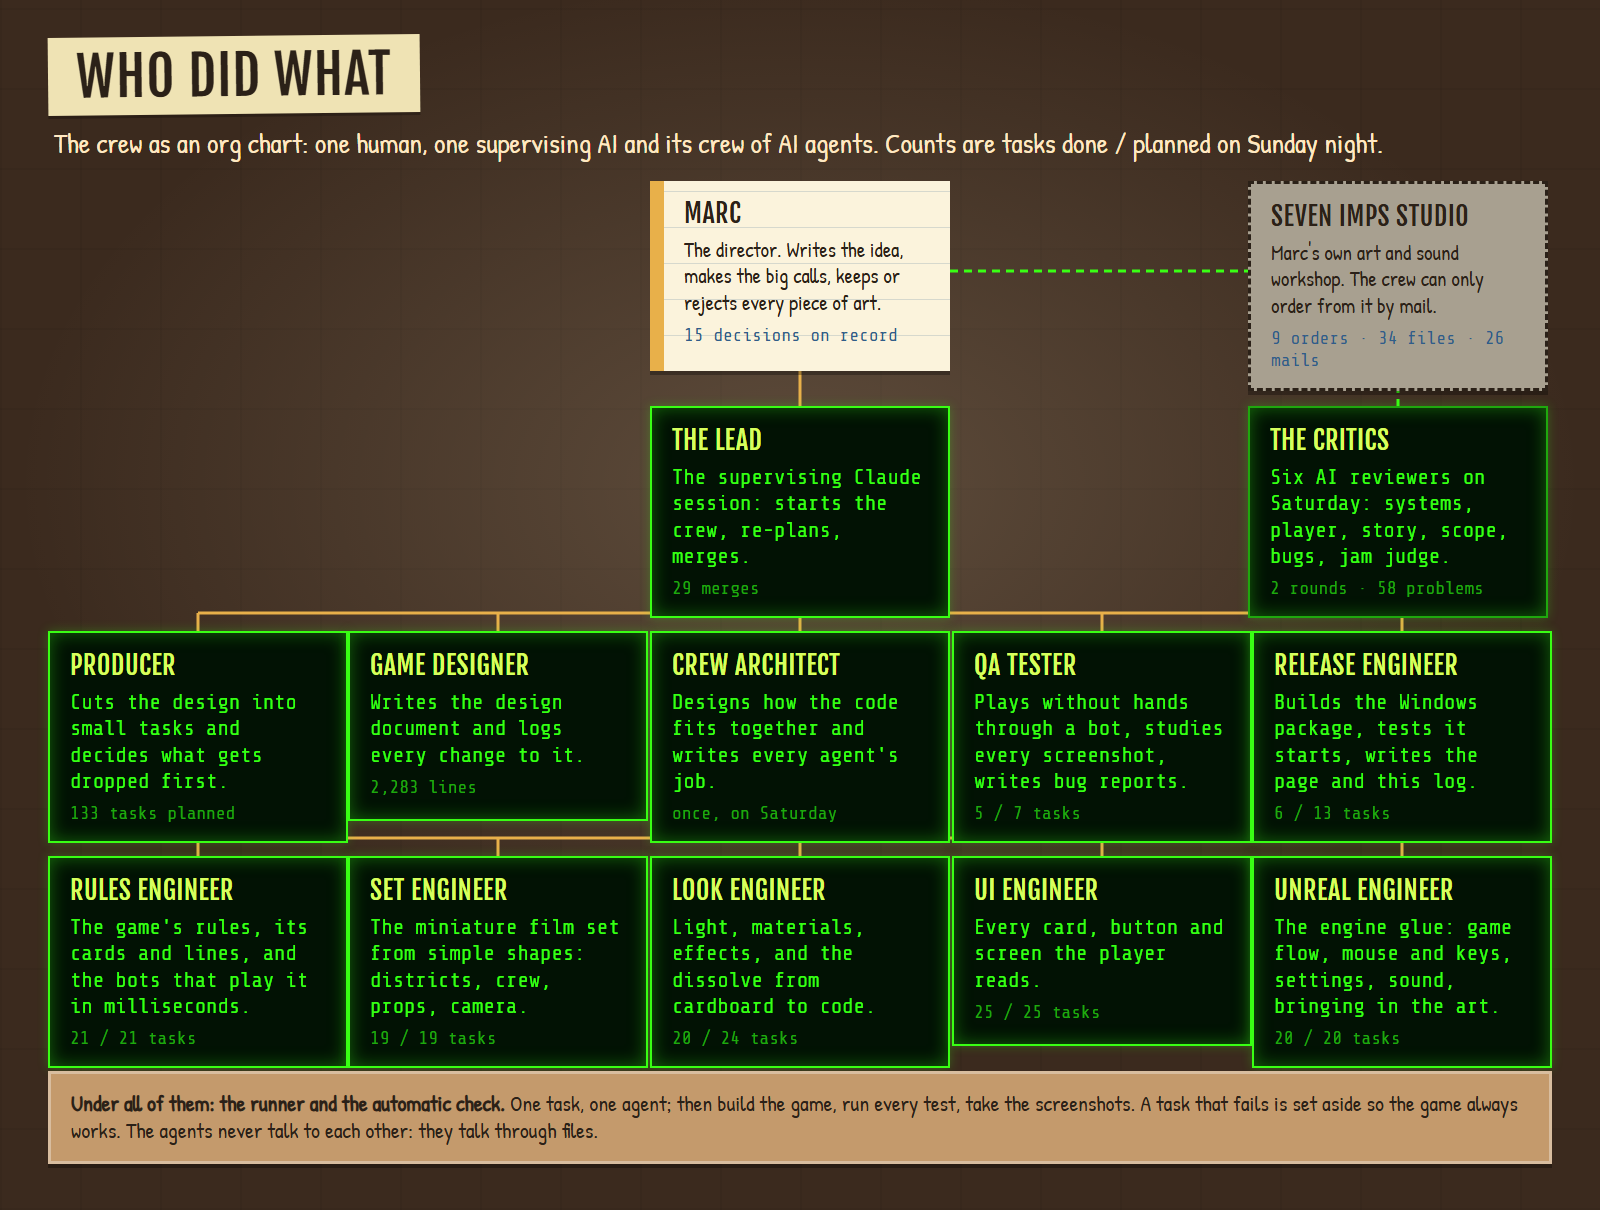
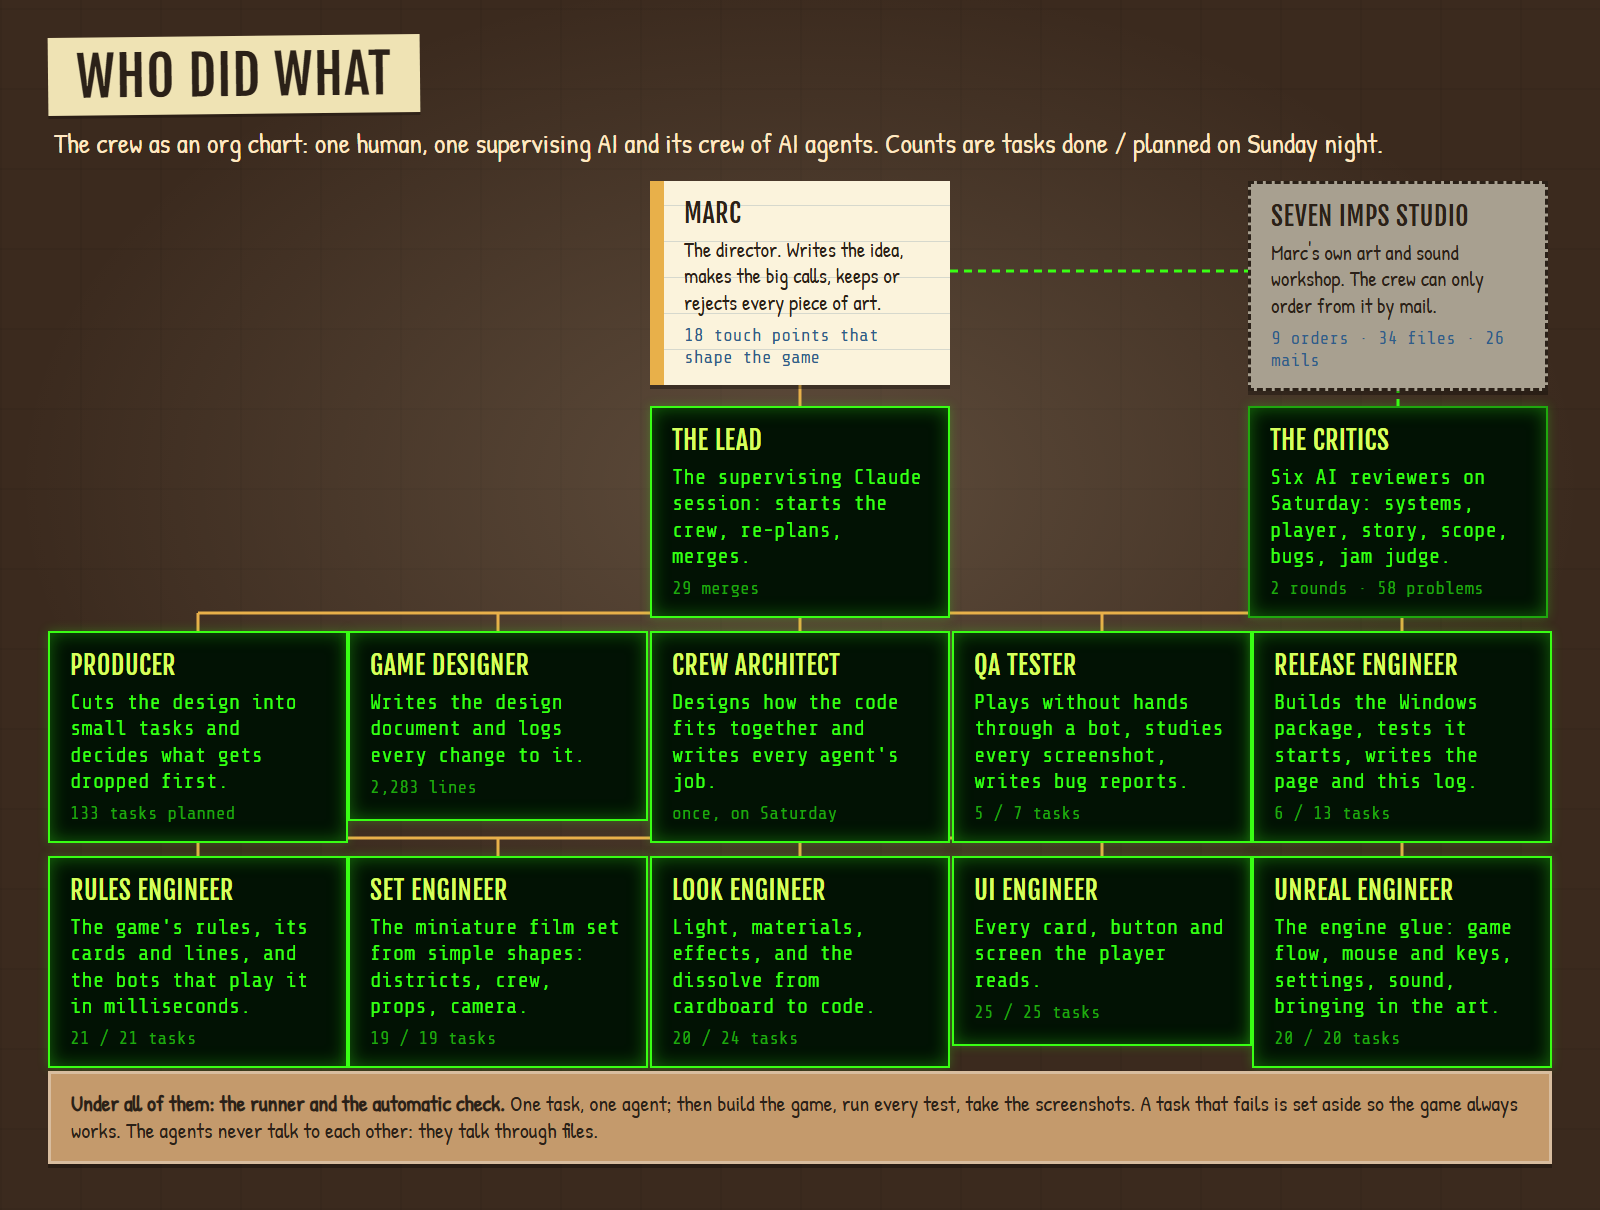
devlog: frame the agents' decisions as keeping Marc in the loop

Changed region(s): [[0.4062, 0.2752, 0.5938, 0.3364]]

diff --git a/index.html b/index.html
@@ -190,12 +190,12 @@ footer p { max-width: 720px; margin: 0 auto .6em; }
 </section>
 
 <section>
-<h2><span class="tape">Where a human was needed</span></h2>
-<p>Eighteen moments in two days, each with a time in the log. I decided what the game is and how it looks, approved every piece of art and sound, and stepped in when the machine stopped. I didn't write code, fix a bug or answer an agent's question.</p>
-<p>In fact, agents weren't allowed to ask. When the design left something open, an agent picked the option that fit best, wrote one line explaining why and carried on. By the end there were 430 of those lines, and only 15 of them are mine.</p>
+<h2><span class="tape">Keeping me in the loop</span></h2>
+<p>The crew ran on its own, but the calls that shape the game stayed with me. Eighteen times in two days I stepped in. I decided what the game is and how it looks, approved every picture and every voice, restarted the crew when it stopped, and said when it was done.</p>
+<p>That only works if the small questions never reach me. When the design left a detail open, an agent picked the option that fit best, wrote one line explaining why and carried on. 415 decisions were settled that way, each one on record with its reason. That left my attention for the decisions that matter.</p>
 <figure>
-  <a href="img/07_human_loop.png"><img src="img/07_human_loop.png" width="1600" height="1040" alt="Where a human was needed: eighteen moments" loading="lazy"></a>
-  <figcaption>My eighteen moments, next to everything that ran without me.</figcaption>
+  <a href="img/07_human_loop.png"><img src="img/07_human_loop.png" width="1600" height="1040" alt="Marc in the loop: eighteen touch points" loading="lazy"></a>
+  <figcaption>My eighteen touch points, and what the crew handled so I could focus on them.</figcaption>
 </figure>
 </section>
 
@@ -228,7 +228,7 @@ footer p { max-width: 720px; margin: 0 auto .6em; }
   <li><span class="n">198</span>automated tests, run after every task; 64 of them take screenshots or play the game</li>
   <li><span class="n">~72,000</span>lines of C++ in Unreal Engine 5.8, all written by agents; nothing built by hand in the editor</li>
   <li><span class="n">15</span>bugs filed, mostly by the QA agent from its own screenshots</li>
-  <li><span class="n">430</span>written decisions, 15 of them mine</li>
+  <li><span class="n">415</span>detail decisions settled automatically by agents, each logged with its reason</li>
   <li><span class="n">34</span>art and sound files from 9 orders</li>
   <li><span class="n">$693</span>of AI usage recorded for 81 of the tasks</li>
 </ul>
